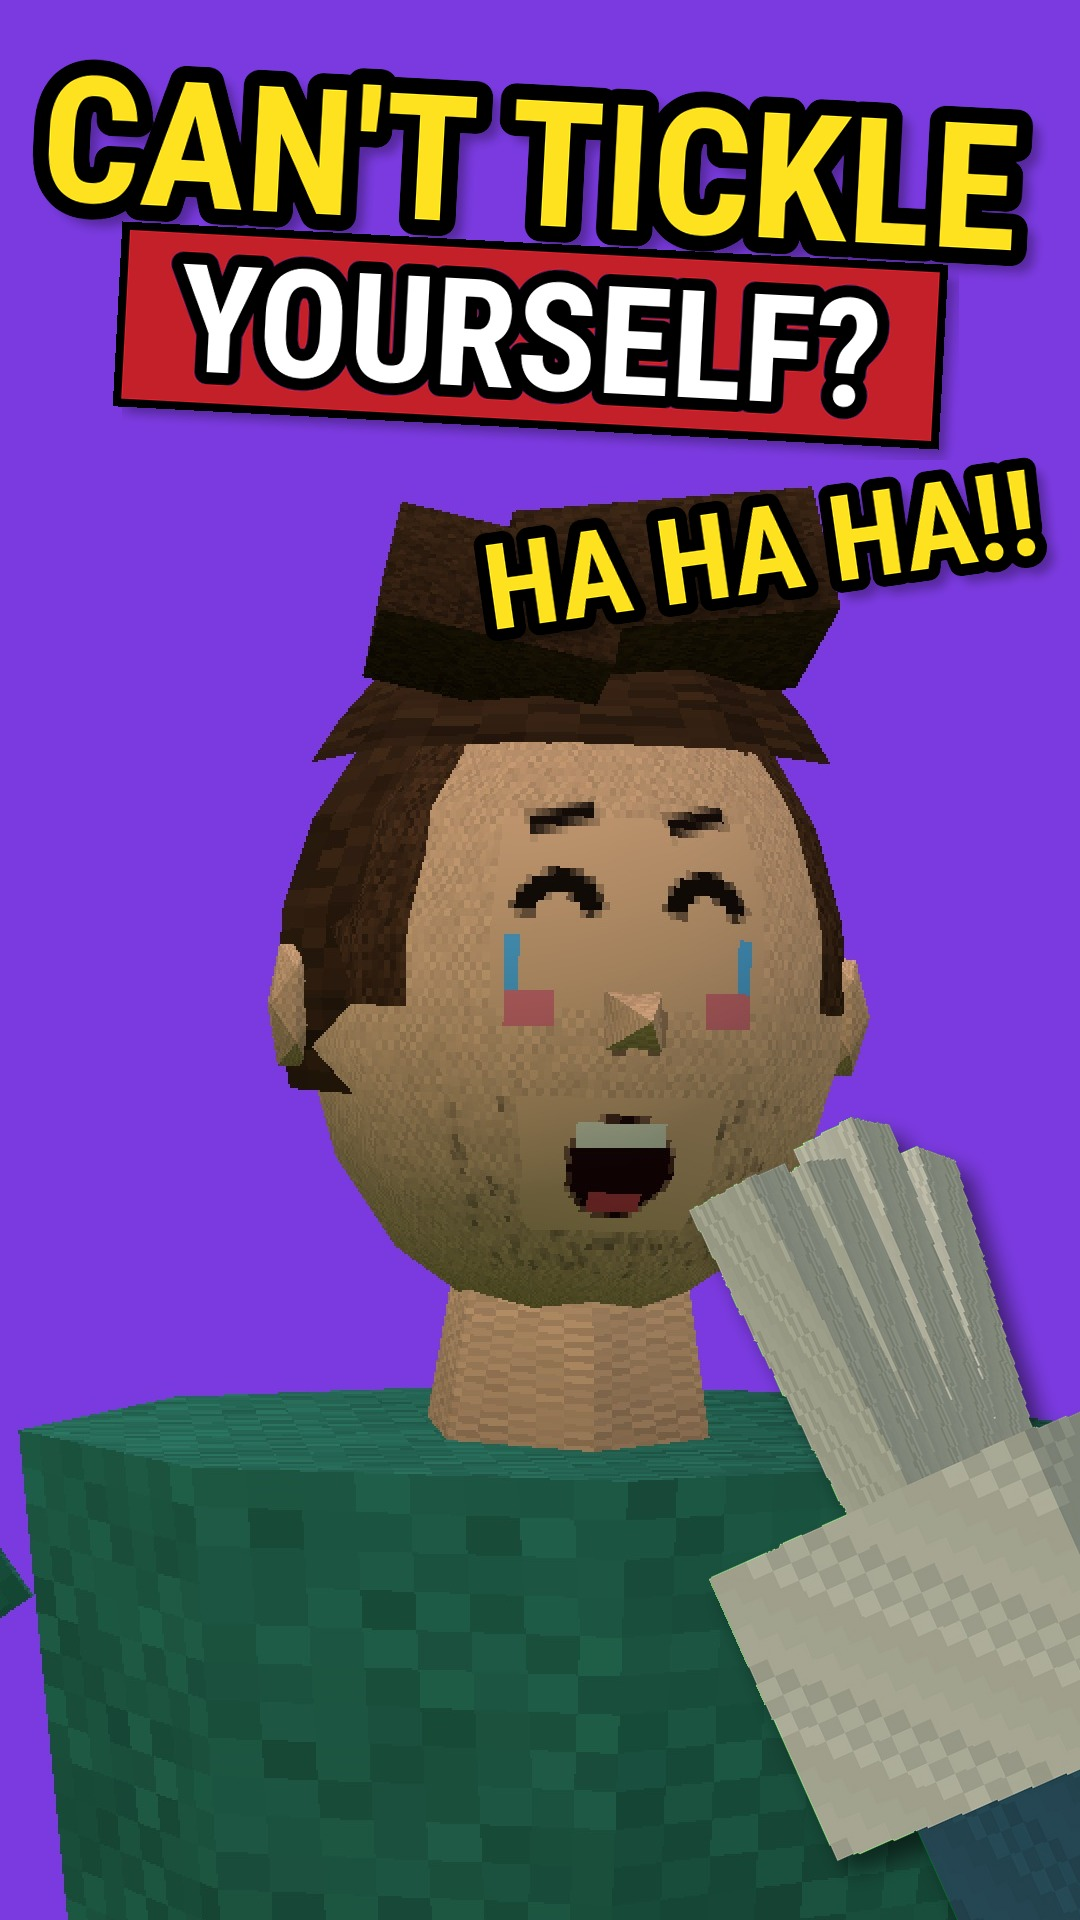
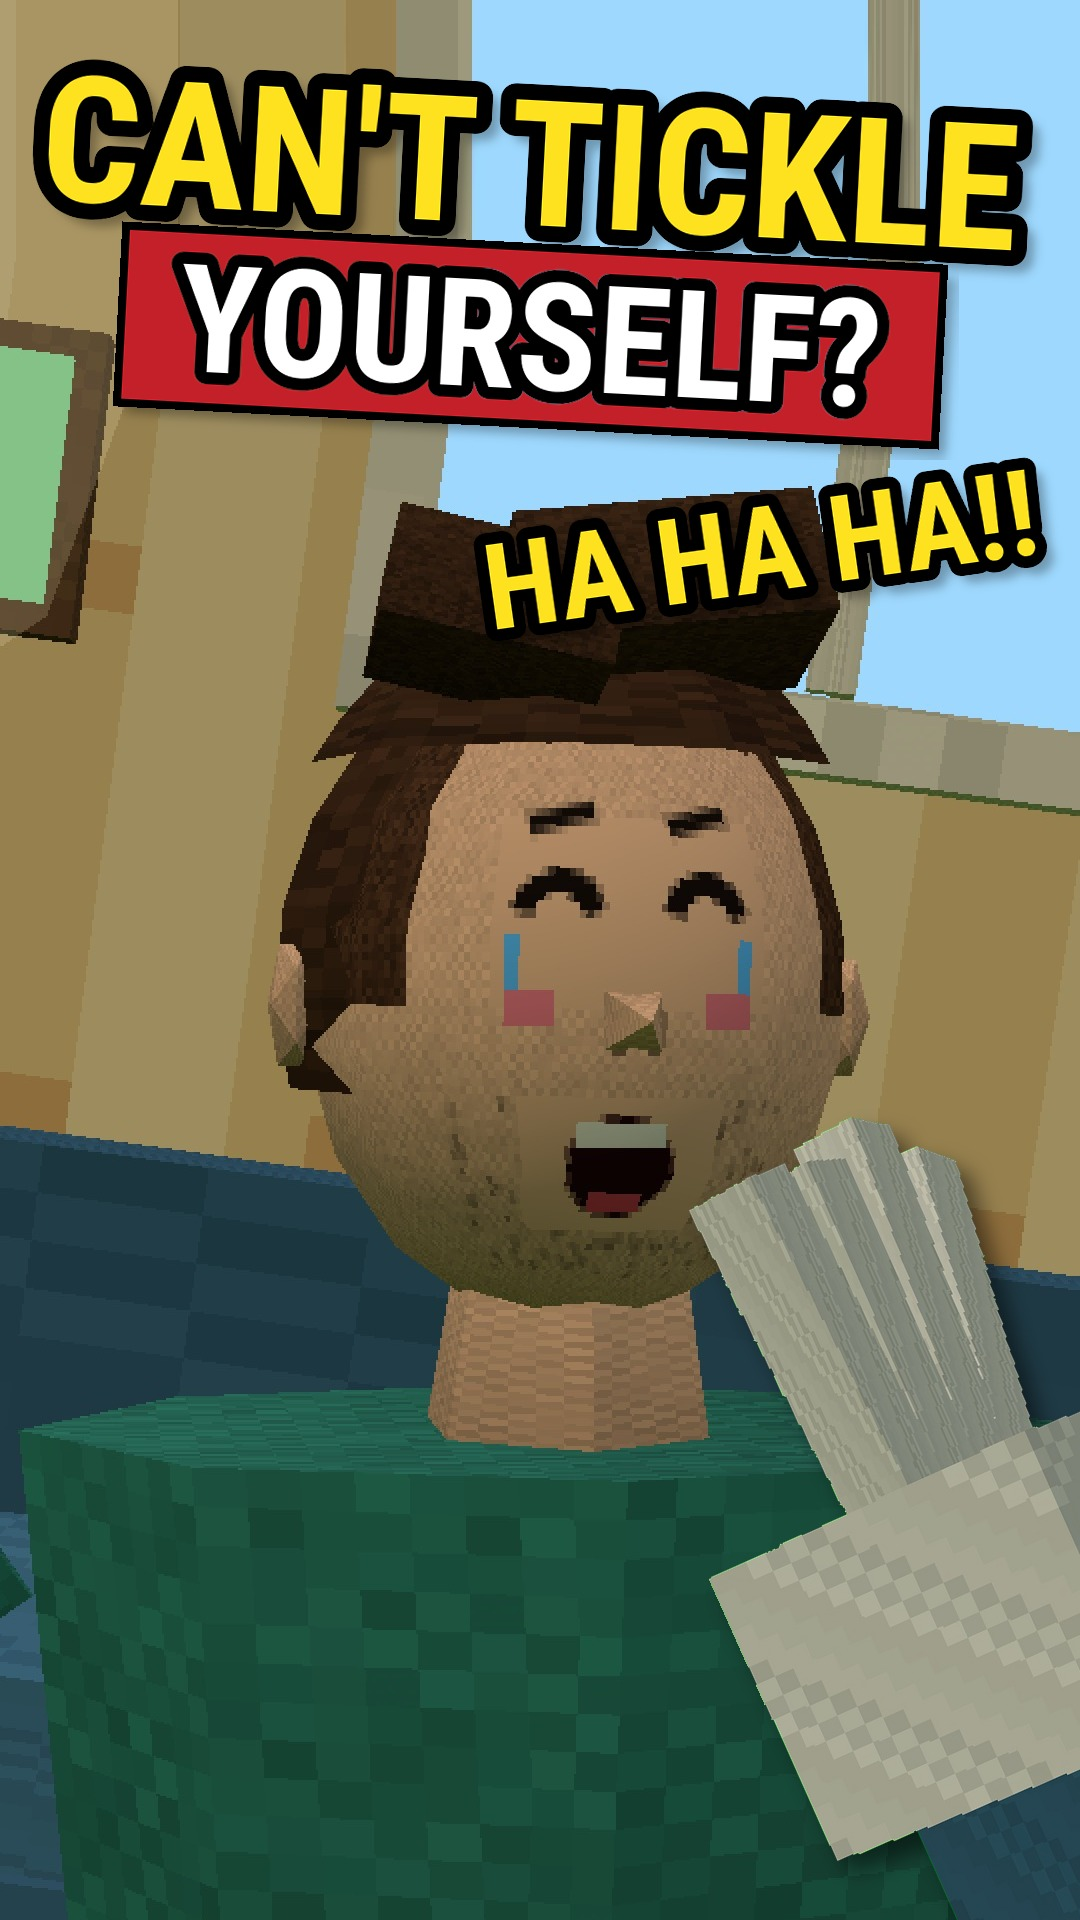
PosttimeLowPoly tickle cover v4: story living room as background
Claude-Session: https://claude.ai/code/session_01EUpLfkeMS9zWWcQnBujwnA

diff --git a/studio/lowpoly/tickle.js b/studio/lowpoly/tickle.js
@@ -84,7 +84,7 @@ Object.assign(SHOTS,{tcover2:(u,d,k)=>{tkEnv('home');show(POLY,TKP2,TKHAND);TKFE
  [[.78,1.78,.3],[.86,1.66,.3],[.74,1.95,.3],[.6,2.04,.3],[.9,1.86,.3],[.7,1.58,.3]].forEach((p,i)=>{TKTEAR[i].visible=true;TKTEAR[i].scale.setScalar(.4);TKTEAR[i].position.set(p[0],p[1],p[2])});
  camTo([0,1.8,3.7],[0,1.8,3.7],[0,2.0,0],[0,2.0,0],0,40)}});
 // ---- cover v3: ONE huge hero (the laughing face) on a vivid flat background; the tickling glove is rendered in its own pass (green screen) and composited big in the foreground by make_cover.py ----
-Object.assign(SHOTS,{tcover3:(u,d,k)=>{tkOff();S.background=new THREE.Color(0x7a3ae0);S.fog.color.set(0x7a3ae0);HEMI.intensity=1.5;show(TKP2);
+Object.assign(SHOTS,{tcover3:(u,d,k)=>{tkEnv('home');show(TKP2);
  TKP2.rest();TKP2.at(.21,0,0,.18);TKP2.face('laugh');TKP2.g.rotation.z=.12;TKP2.arms[0].rotation.set(-.2,0,-.95);TKP2.arms[1].rotation.set(-.2,0,.95);
  camTo([0,1.7,1.55],[0,1.7,1.55],[0,1.62,0],[0,1.62,0],0,40);cam.rotateZ(.14)},
  tcover3g:(u,d,k)=>{tkOff();S.background=new THREE.Color(0x00ff00);S.fog.color.set(0x00ff00);HEMI.intensity=1.5;show(TKHAND);TKHAND.userData.f.forEach((f,i)=>f.rotation.x=-.3+i*.14);TKHAND.rotation.set(Math.PI/2,0,.5);TKHAND.position.set(0,0,0);camTo([0,.1,3.4],[0,.1,3.4],[0,0,0],[0,0,0],0,40)}});

diff --git a/studio/lowpoly/cover_tickle.py b/studio/lowpoly/cover_tickle.py
@@ -5,7 +5,7 @@ from PIL import Image,ImageDraw,ImageFont,ImageFilter
 H=os.path.dirname(os.path.abspath(__file__));F=H+'/../fonts/RobotoCondensed-Bold.ttf';Q=H+'/out/tickle_cover'
 W,Hh=1080,1920;BG=(122,58,224)
 face=Image.open(Q+'/face/00015.jpg').convert('RGB');gl=Image.open(Q+'/glove/00015.jpg').convert('RGBA')
-im=Image.new('RGB',(W,Hh),BG);im.paste(face,(0,250))
+im=face.resize((W,Hh)).crop((0,0,W,Hh)) if False else Image.new('RGB',(W,Hh),BG);im.paste(face,(0,250));im.paste(face.crop((0,0,W,10)).resize((W,260)),(0,0))
 # key out the green background of the glove pass, crop to the glove
 px=gl.load()
 for y in range(gl.size[1]):
